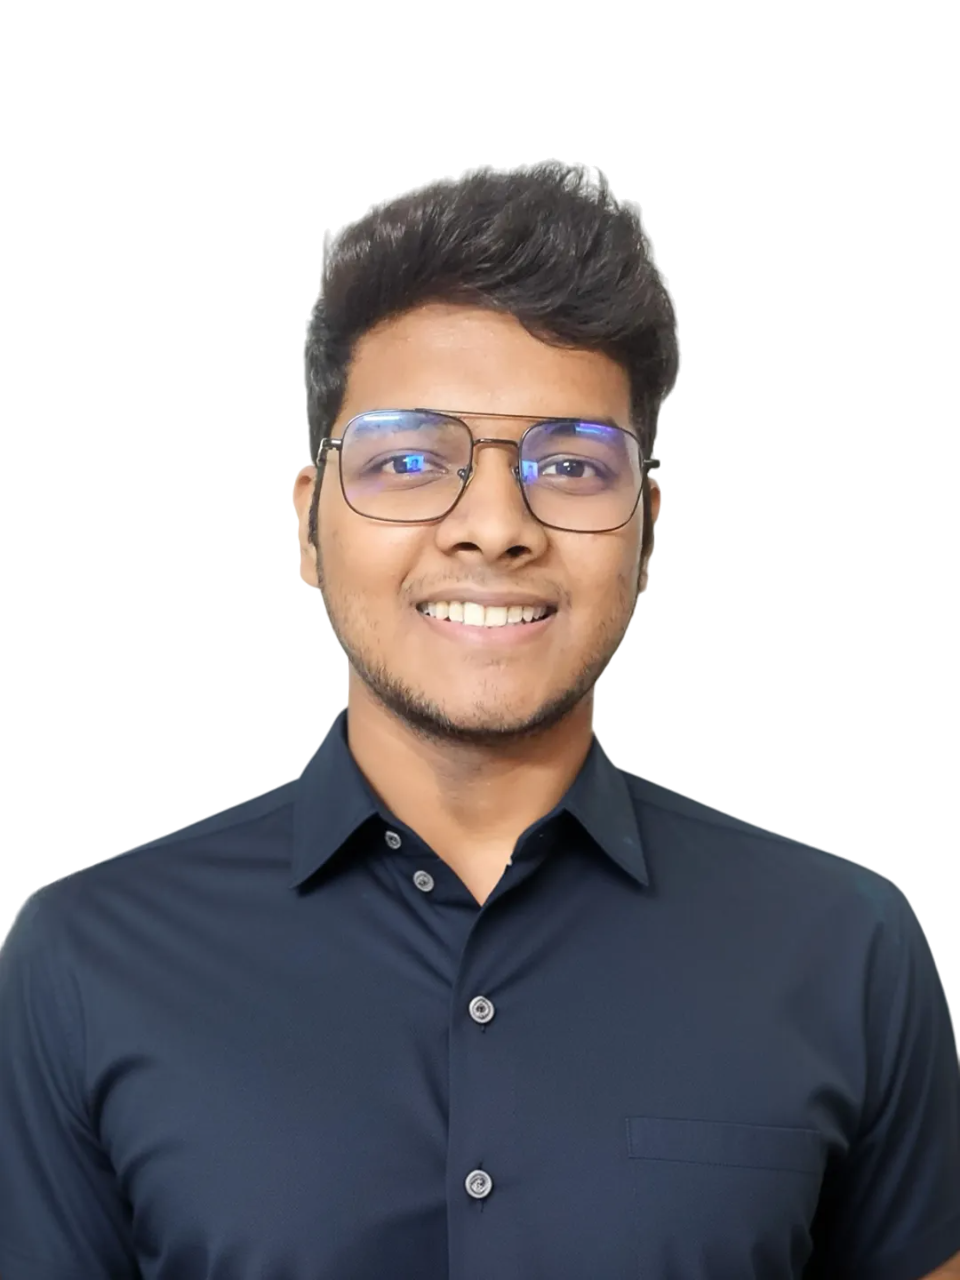
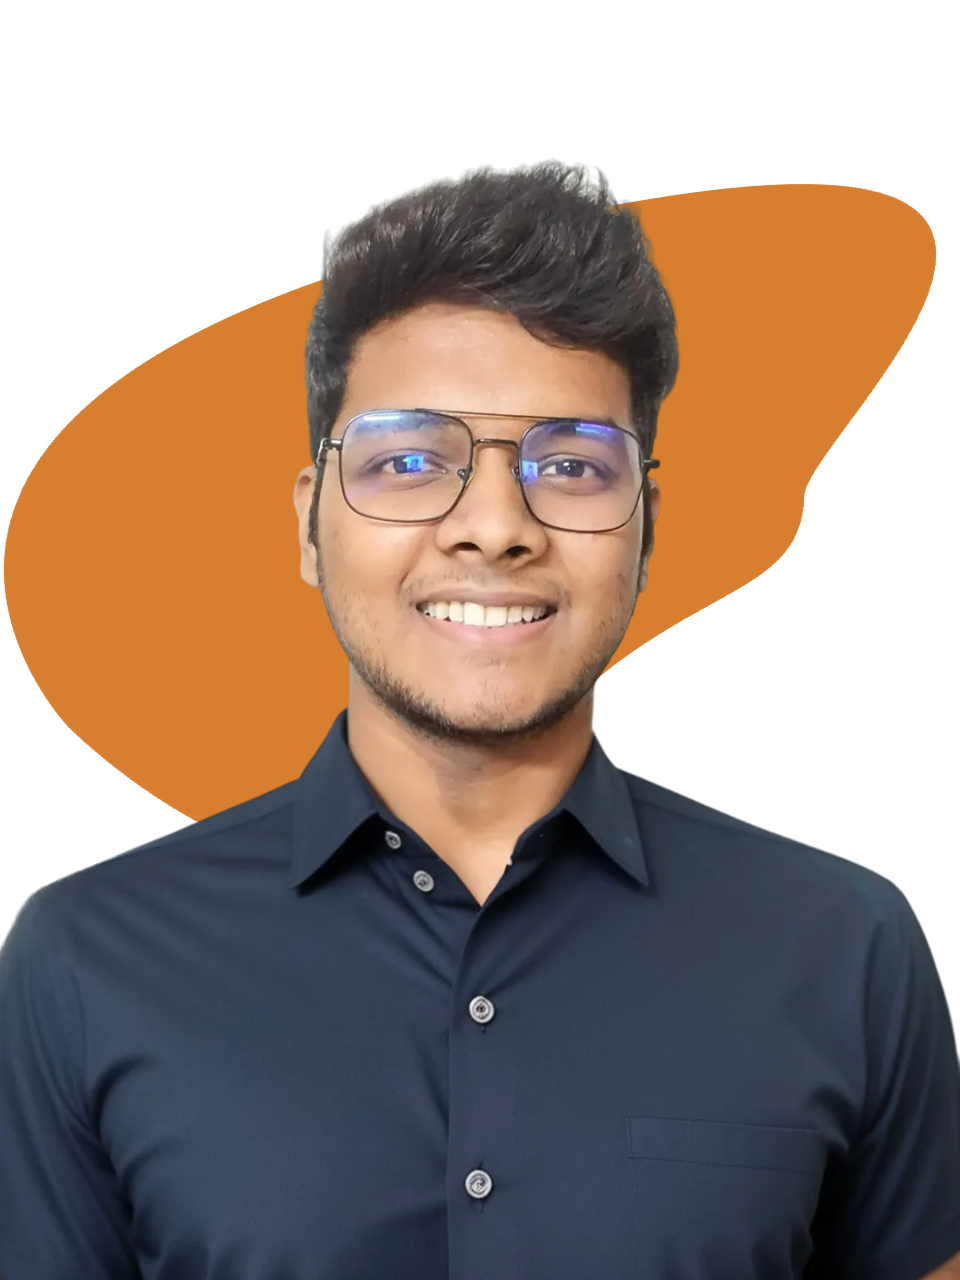
yes

Changed region(s): [[0.0, 0.2188, 0.375, 0.6562], [0.625, 0.125, 1.0, 0.5312]]

diff --git a/index.html b/index.html
@@ -210,7 +210,7 @@
 								<div class="row">
 									<div class="col-sm-6 col-md-5">
 									  <div class="about-img">
-										<img src="images/about-me2 (2).png" class="img-fluid rounded b-shadow-a" alt="">
+										<img src="images/bg_12.png" class="img-fluid rounded b-shadow-a" alt="">
 									  </div>
 									</div>
 									<!-- Details next to profile image -->
